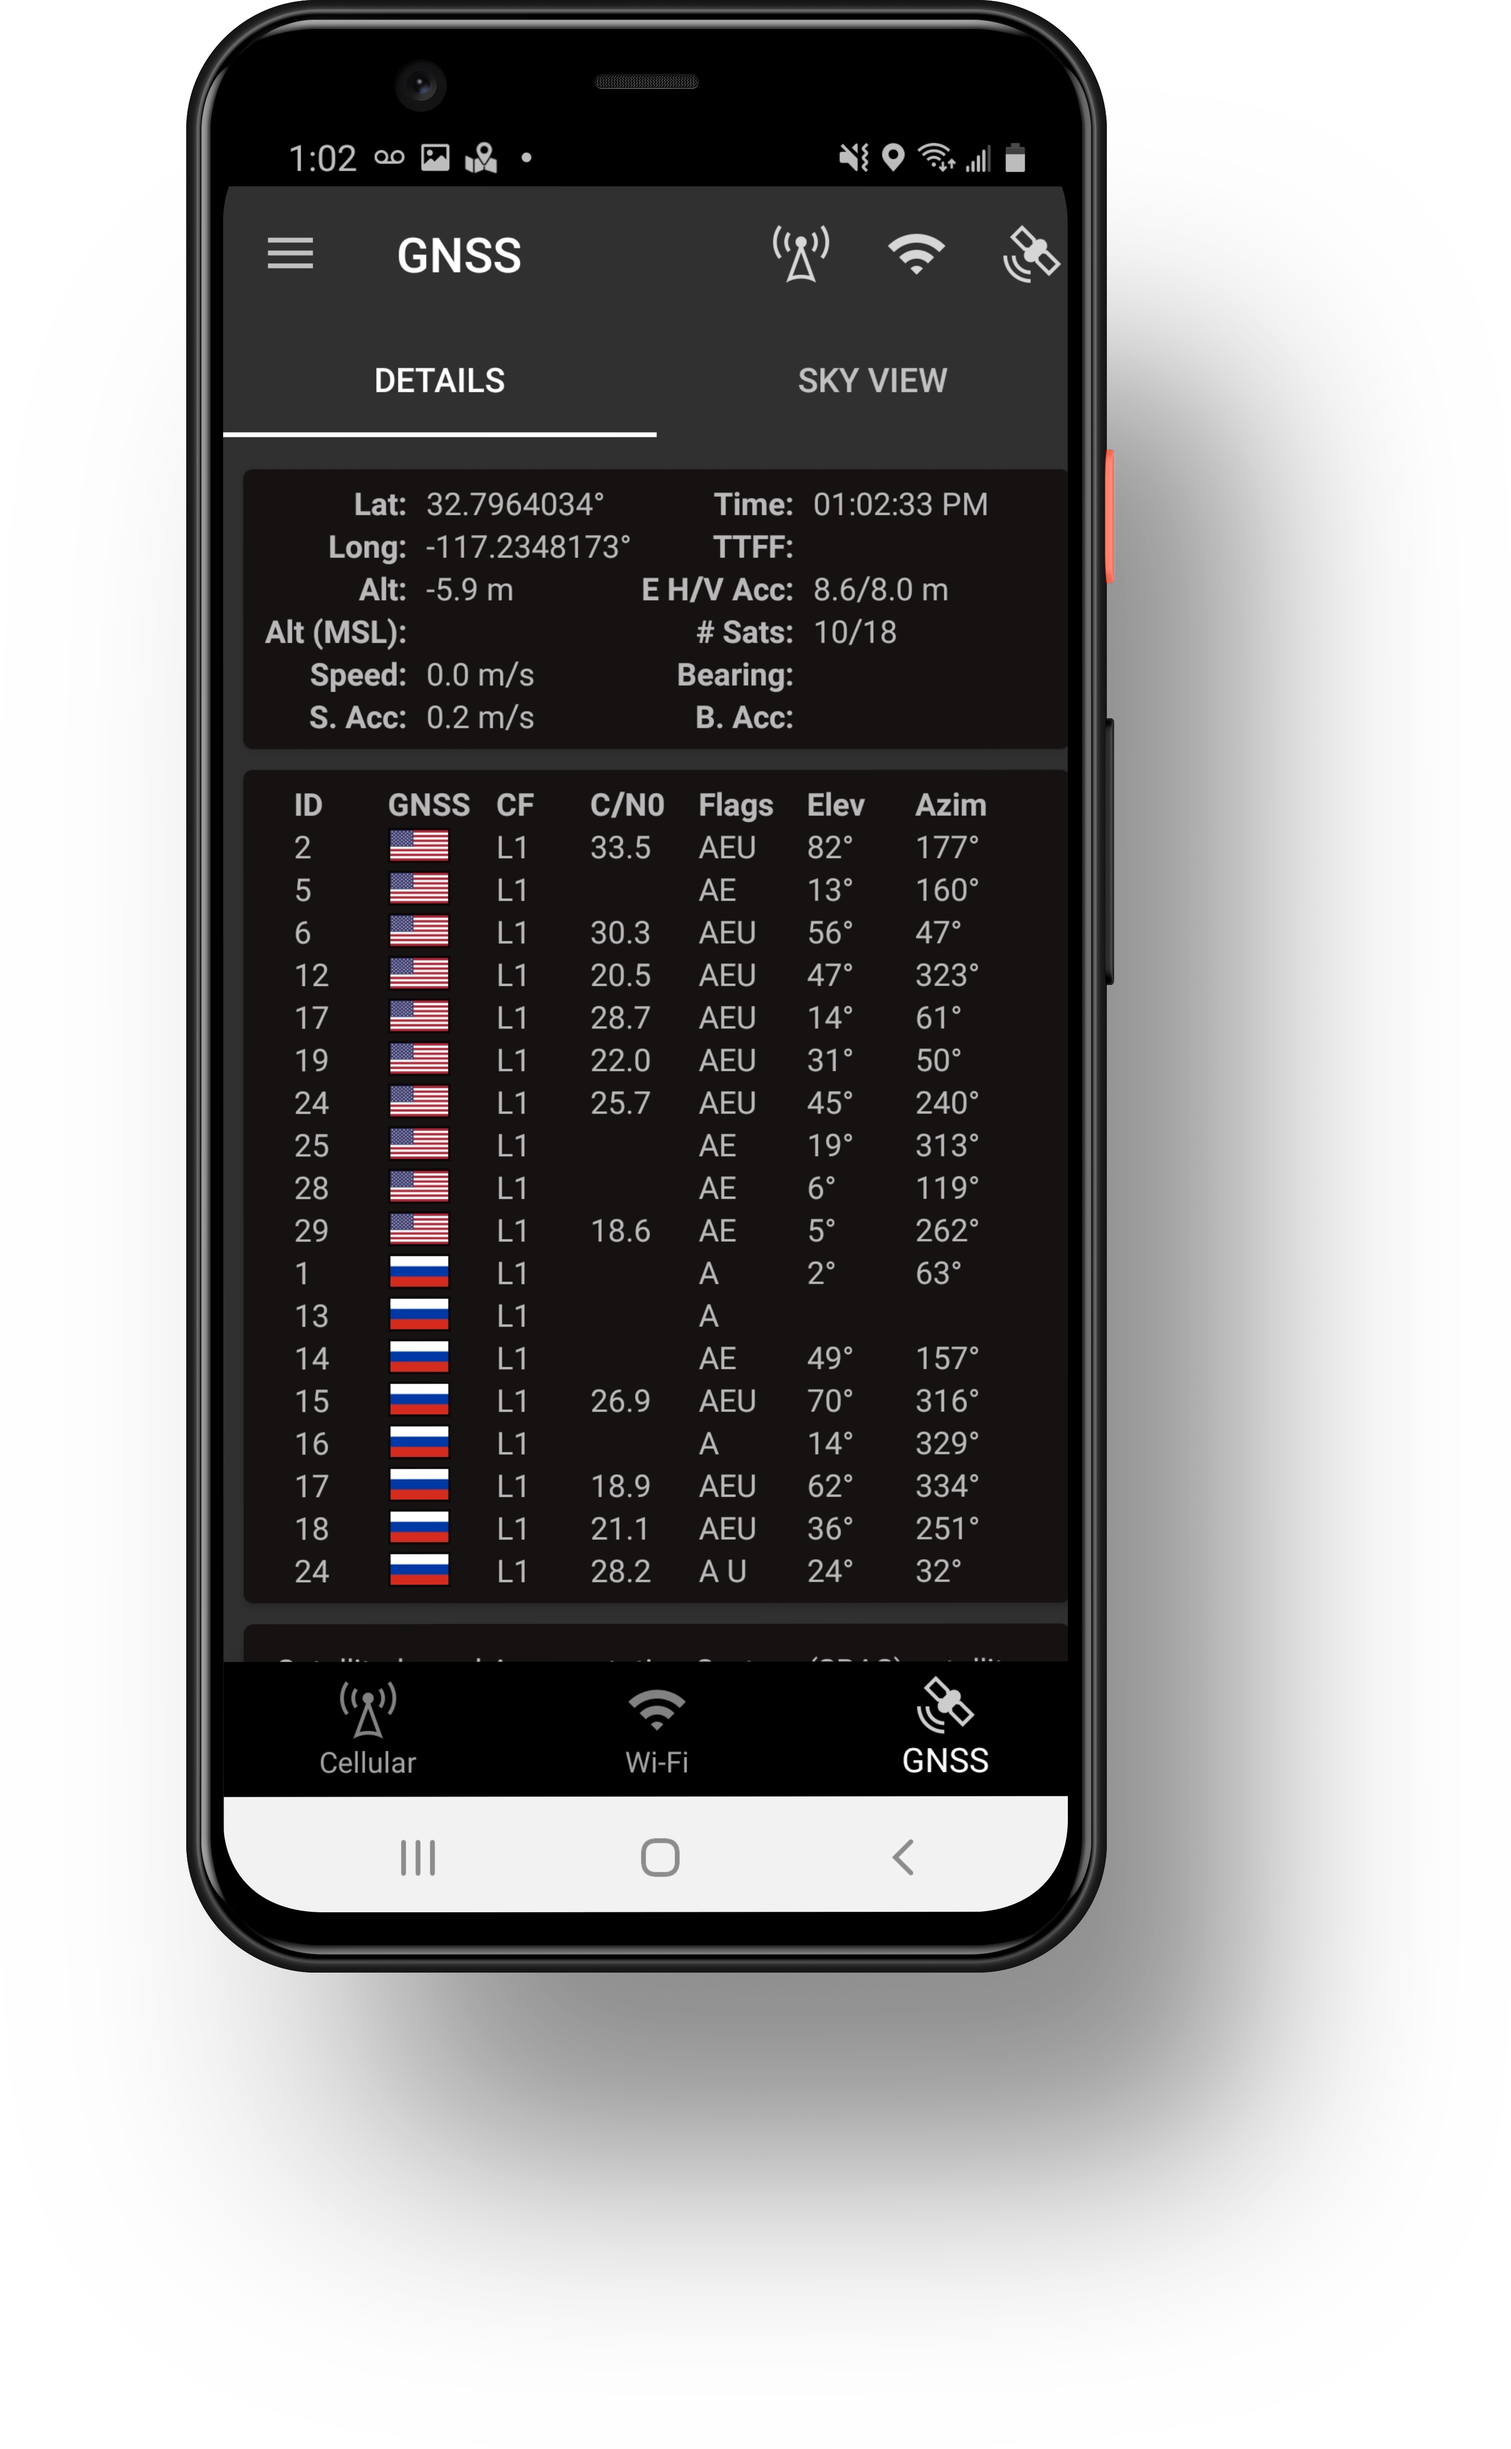
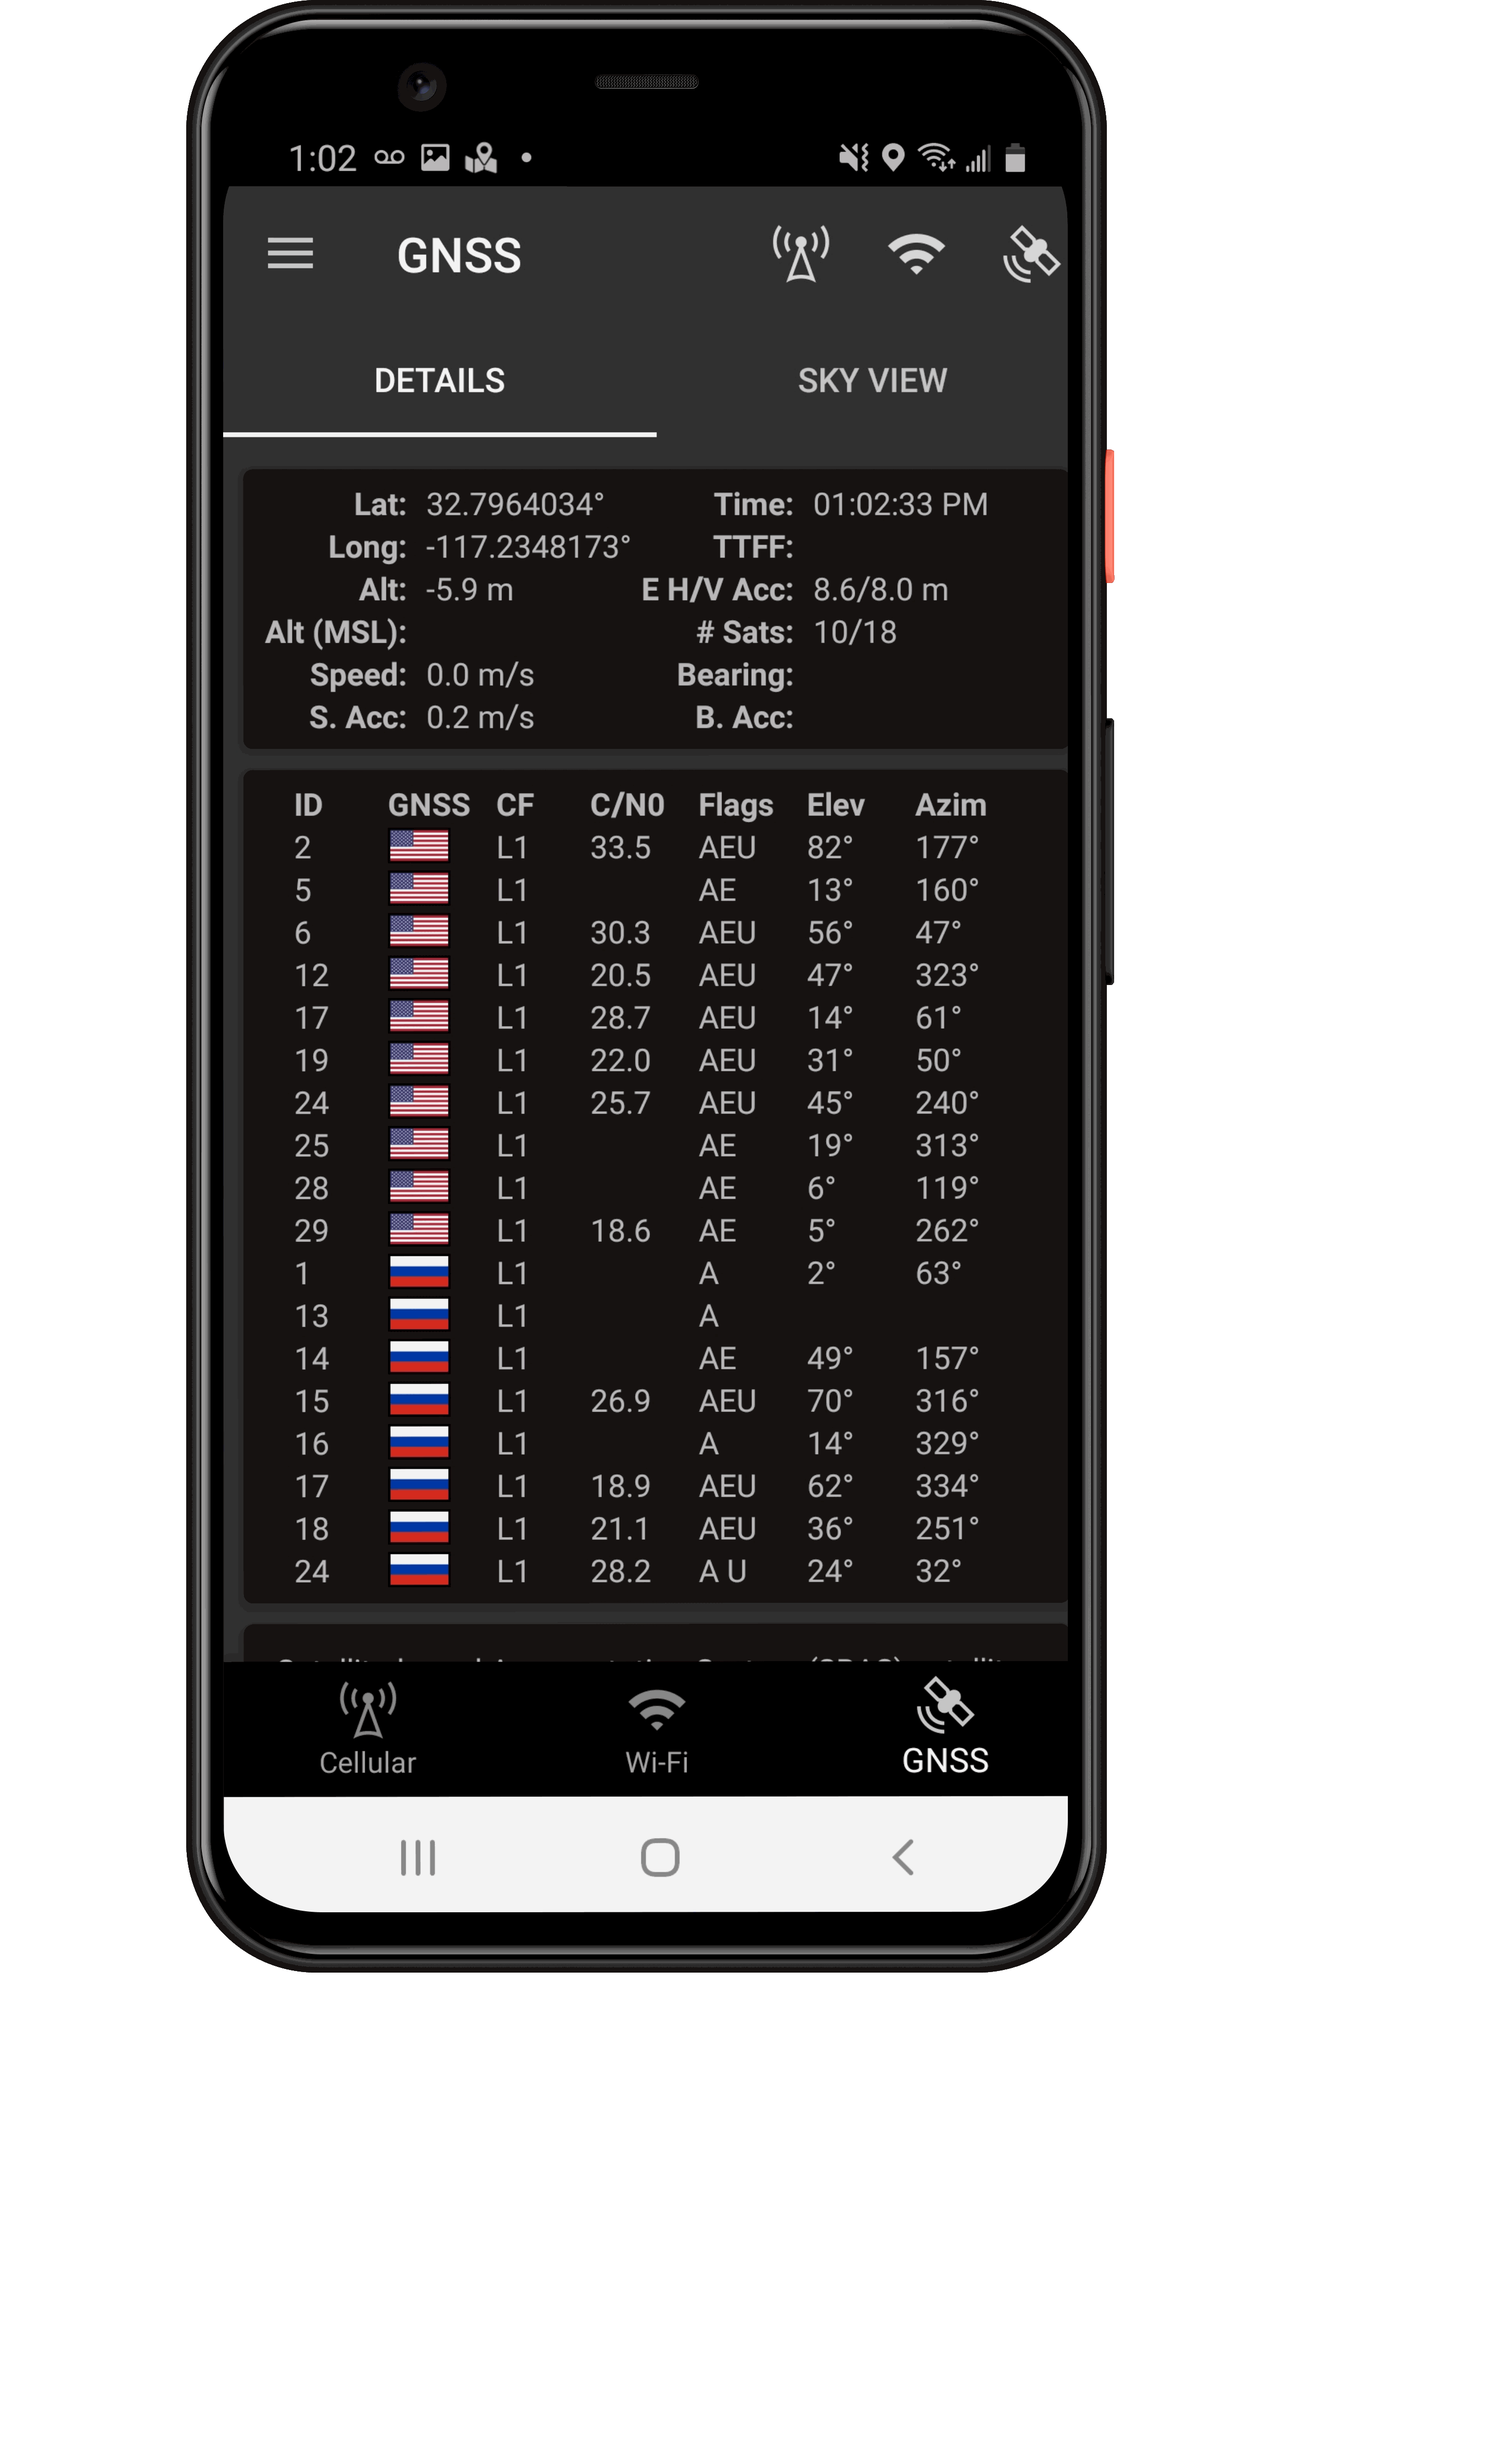
Reduced the size of the images in the user manual to allow for faster web page loading

Changed region(s): [[0.1549, 0.1249, 0.8985, 0.9365]]

diff --git a/docs/index.html b/docs/index.html
@@ -508,7 +508,7 @@ Network Survey logs data of the cellular protocol to which the handset is curren
 </table>
 </div></div></td>
 <td class="tableblock halign-right valign-top"><div class="content"><div class="paragraph">
-<p><span class="image"><img src="images/protocol_lock.png" alt="lock protocol" width="325" height="300"></span></p>
+<p><span class="image"><img src="images/protocol_lock_mockup.png" alt="lock protocol" width="325" height="300"></span></p>
 </div></div></td>
 </tr>
 </tbody>
@@ -524,7 +524,7 @@ Network Survey logs data of the cellular protocol to which the handset is curren
 There are a couple cellular calculators to aid in quick conversions.</p>
 <p class="tableblock"><span class="underline">LTE Cell ID Calculator</span>: Convert an LTE Cell ID to the corresponding eNodeB ID and Sector ID.</p>
 <p class="tableblock"><span class="underline">LTE PCI Calculator</span>: Convert an LTE PCI to the corresponding Primary Synchronization Signal (0, 1, or 2) and Secondary Synchronization Signal (0 - 167).</p></td>
-<td class="tableblock halign-right valign-top"><p class="tableblock"><span class="image"><img src="images/cellular_calculators_both.png" alt="Calculators" width="325" height="300"></span></p></td>
+<td class="tableblock halign-right valign-top"><p class="tableblock"><span class="image"><img src="images/cellular_calculators_mockup.png" alt="Calculators" width="325" height="300"></span></p></td>
 </tr>
 </tbody>
 </table>
@@ -542,7 +542,7 @@ There are a couple cellular calculators to aid in quick conversions.</p>
 <tbody>
 <tr>
 <td class="tableblock halign-left valign-top"><p class="tableblock">The Wi-Fi Details View displays the details of access points seen by your device.</p></td>
-<td class="tableblock halign-right valign-top"><p class="tableblock"><span class="image"><img src="images/wifi_details_view.png" alt="Wi-Fi Details" width="325" height="300"></span></p></td>
+<td class="tableblock halign-right valign-top"><p class="tableblock"><span class="image"><img src="images/wifi_details_view_mockup.png" alt="Wi-Fi Details" width="325" height="300"></span></p></td>
 </tr>
 </tbody>
 </table>
@@ -555,7 +555,7 @@ There are a couple cellular calculators to aid in quick conversions.</p>
 <tr>
 <td class="tableblock halign-left valign-top"><p class="tableblock">By default, Access Points are sorted by signal strength.  Tap the <strong>sort</strong> button to change how the access points are sorted.
 <span class="image"><img src="images/sort_button.png" alt="Sort Button" width="50" height="50"></span></p></td>
-<td class="tableblock halign-right valign-top"><p class="tableblock"><span class="image"><img src="images/wifi_sort_by.png" alt="Wi-Fi Sorting" width="325" height="300"></span></p></td>
+<td class="tableblock halign-right valign-top"><p class="tableblock"><span class="image"><img src="images/wifi_sort_by_mockup.png" alt="Wi-Fi Sorting" width="325" height="300"></span></p></td>
 </tr>
 </tbody>
 </table>
@@ -698,7 +698,7 @@ Cellular and Wi-Fi survey files are stored on the device in the <strong>Download
 </div>
 <div id="footer">
 <div id="footer-text">
-Last updated 2020-07-10 14:45:21 -0500
+Last updated 2020-08-11 08:21:58 -0400
 </div>
 </div>
 </body>
